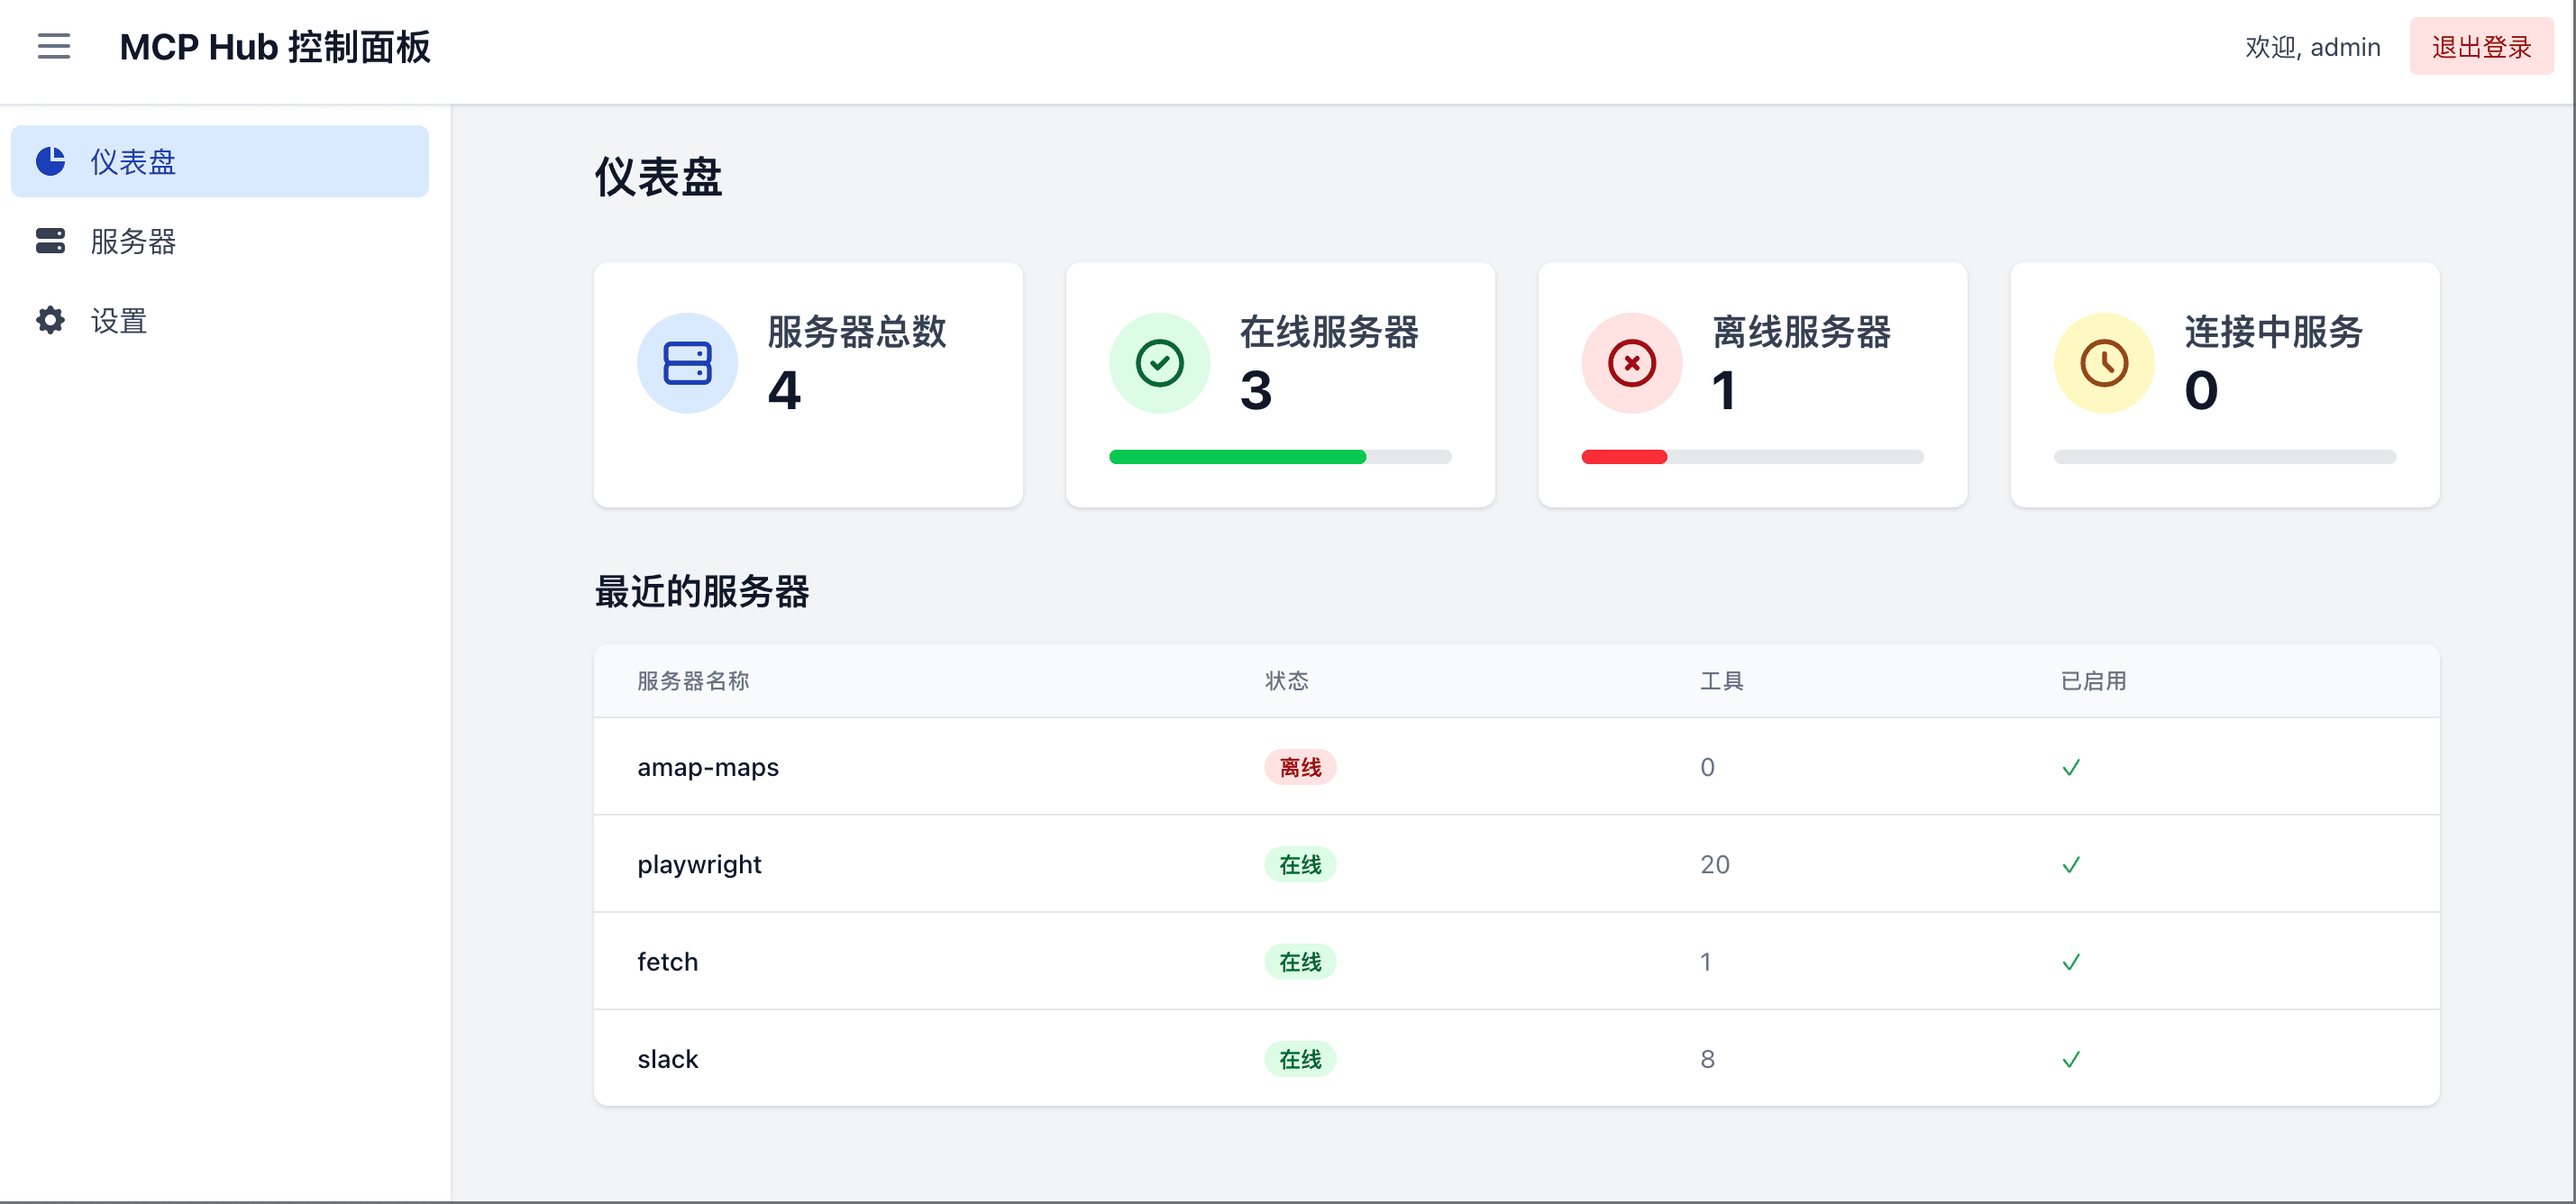
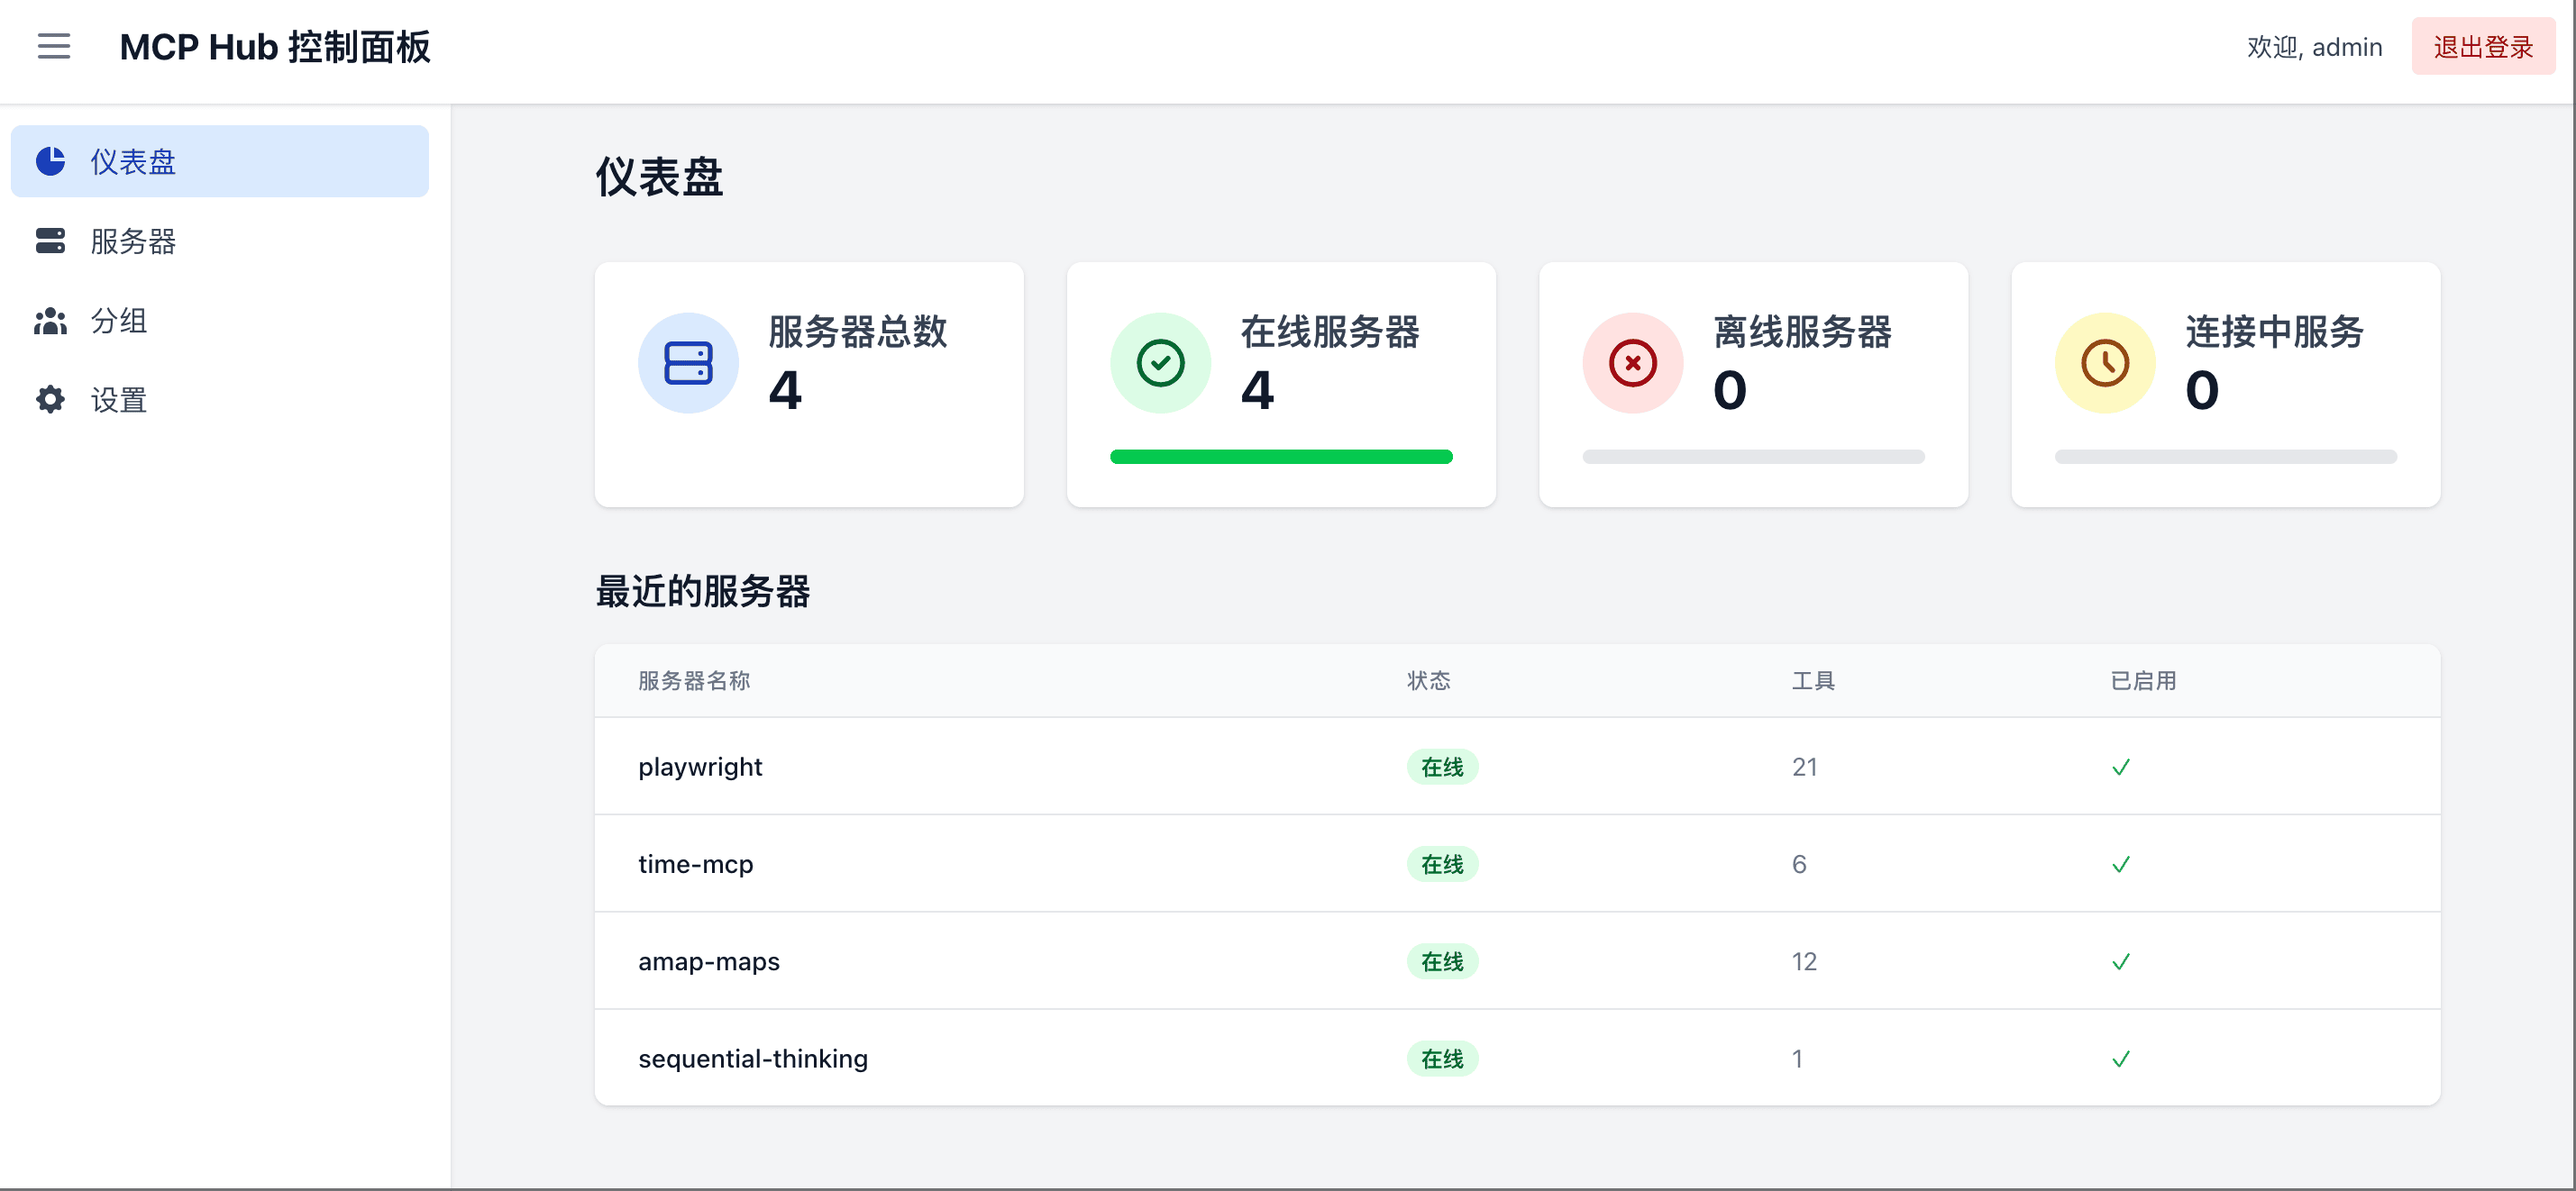
docs: add group part (#18)

diff --git a/README.zh.md b/README.zh.md
@@ -95,6 +95,20 @@ docker run -p 3000:3000 samanhappy/mcphub
 http://localhost:3000/sse
 ```
 
+**基于分组的 SSE 端点（推荐）**： 
+
+![分组](assets/group.zh.png) 
+
+要针对特定服务器分组进行访问，请使用基于分组的 SSE 端点：
+```
+http://localhost:3000/sse/{groupId}
+```
+
+其中 `{groupId}` 是您在控制面板中创建的分组 ID。这样做可以：
+- 连接到按用例组织的特定 MCP 服务器子集
+- 隔离不同的 AI 工具，使其只能访问相关服务器
+- 为不同环境或团队实现更精细的访问控制
+
 ## 🧑💻 本地开发
 
 ```bash
@@ -121,6 +135,10 @@ pnpm dev
 - 文档完善
 - Bug 报告与修复
 - 翻译与建议
+
+欢迎加入企微交流共建群
+
+<img src="assets/wegroup.png" width="500">
 
 ## 📄 许可证
 

diff --git a/README.md b/README.md
@@ -95,6 +95,20 @@ Connect AI clients (e.g., Claude Desktop, Cursor, Cherry Studio) via:
 http://localhost:3000/sse
 ```
 
+**Group-Specific Endpoints (Recommended)**:  
+
+![Group Management](assets/group.png)
+
+For targeted access to specific server groups, use the group-based SSE endpoint:
+```
+http://localhost:3000/sse/{groupId}
+```
+
+Where `{groupId}` is the ID of the group you created in the dashboard. This allows you to:
+- Connect to a specific subset of MCP servers organized by use case
+- Isolate different AI tools to access only relevant servers
+- Implement more granular access control for different environments or teams
+
 ## 🧑💻 Local Development
 
 ```bash
